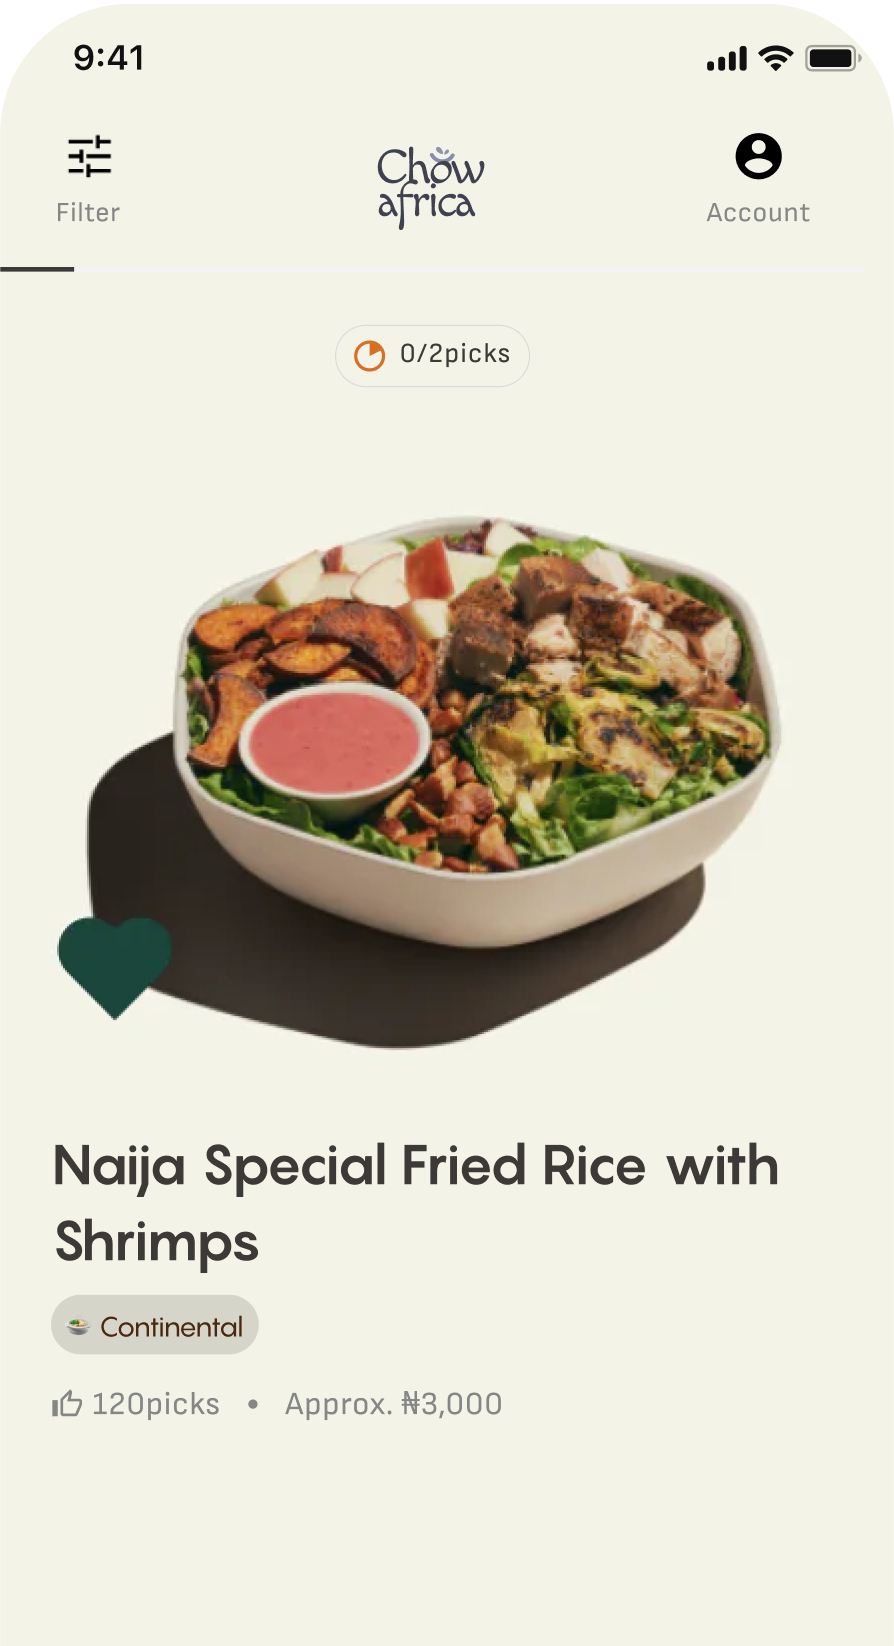
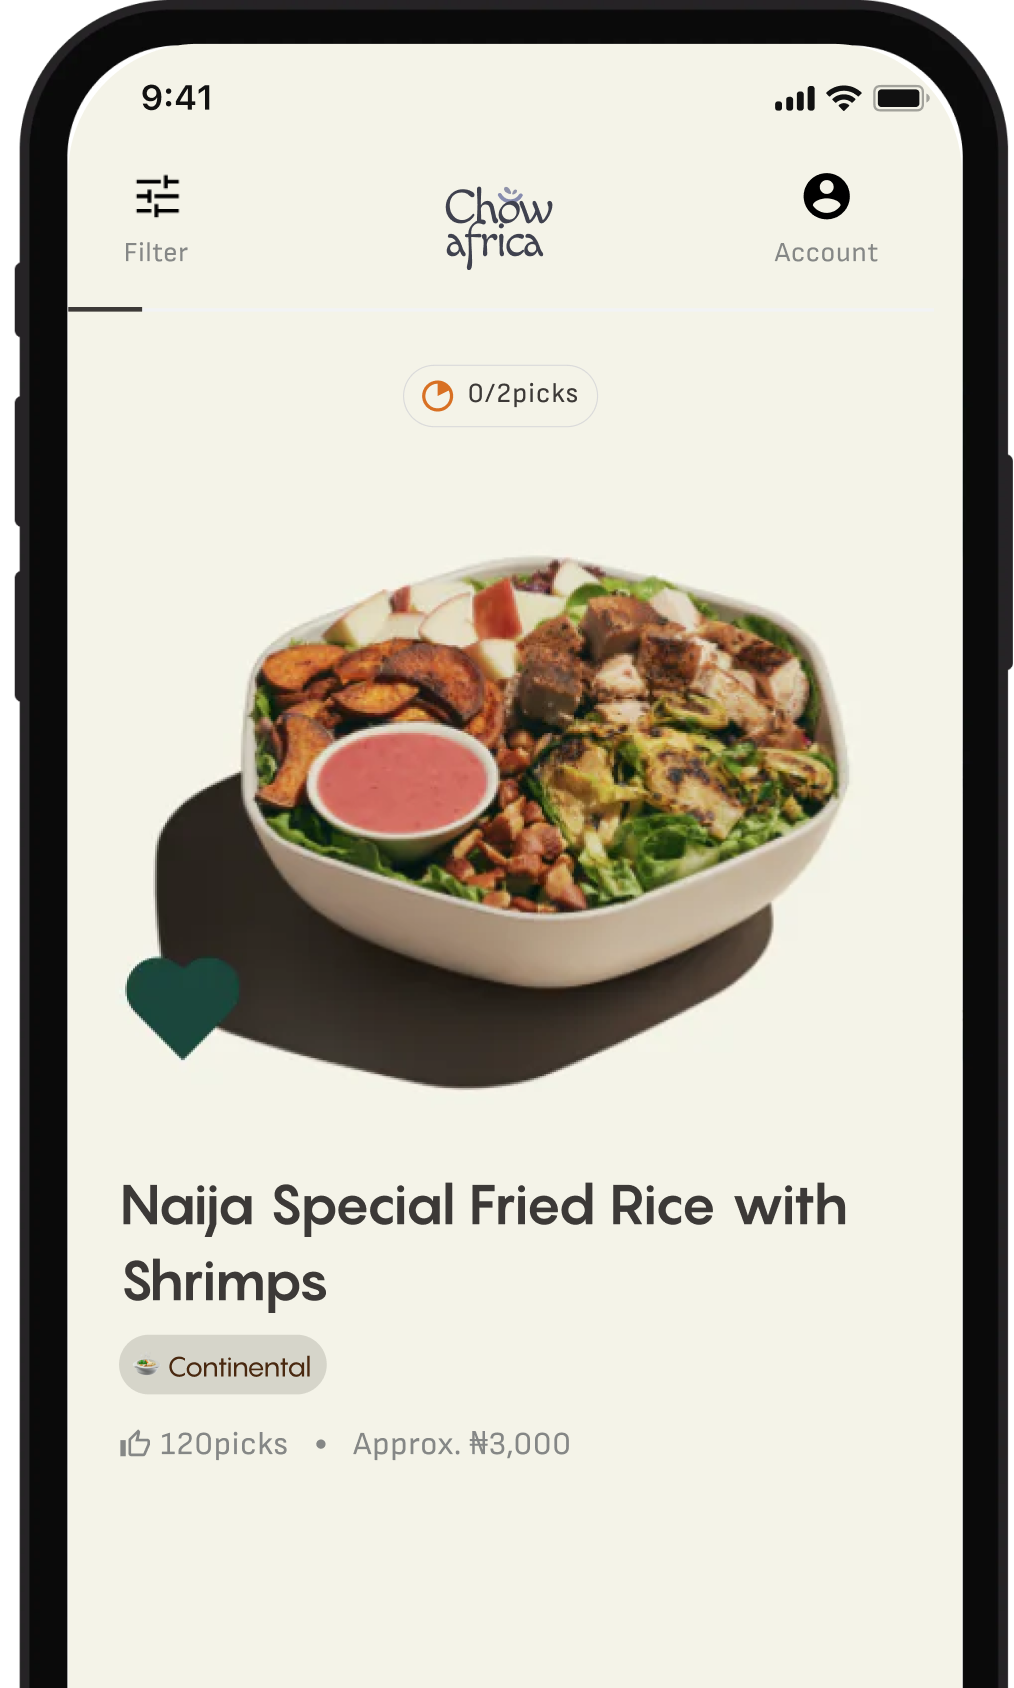
Food frame implementation

Changed region(s): [[0.0, 0.0, 1.0, 1.0], [0.4228, 0.093, 0.5436, 0.1549], [0.3926, 0.1859, 0.5738, 0.2479]]

diff --git a/src/components/home/heroSectionfoodlist.tsx b/src/components/home/heroSectionfoodlist.tsx
@@ -1,4 +1,4 @@
-import { ThumbsUp } from "lucide-react";
+import { ThumbsUp } from 'lucide-react';
 import Slider from "react-slick";
 import type { FoodItem } from "@/types/food";
 import productImage from "@/assets/img/Home-new-01.png";
@@ -63,8 +63,7 @@ export function HeroSectionFoodList() {
     autoplay: true,
     autoplaySpeed: 5000,
     pauseOnHover: true,
-    centerMode: true, 
-    className: "items-end",
+    centerMode: false,
     responsive: [
       {
         breakpoint: 1204,
@@ -87,7 +86,7 @@ export function HeroSectionFoodList() {
       {
         breakpoint: 480,
         settings: {
-          slidesToShow: 1, 
+          slidesToShow: 1,
         },
       },
     ],
@@ -95,44 +94,66 @@ export function HeroSectionFoodList() {
 
   return (
     <div className="relative">
-      <Slider {...settings} className="flex gap-4 items-end">
+      <style jsx global>{`
+        .slick-track {
+          display: flex !important;
+          align-items: flex-end !important;
+        }
+        .slick-slide {
+          height: inherit !important;
+          display: flex !important;
+          align-items: flex-end !important;
+        }
+        .slick-slide > div {
+          width: 100%;
+          display: flex;
+          align-items: flex-end;
+        }
+      `}</style>
+      
+      <Slider {...settings}>
         {foodItems.map((item) => (
-          <div className="p-2 flex items-end" key={item.id}>
-          {item.isHighlighted ? (
-                <div className="flex justify-center rounded-xl bg-transparent py-3 mb-4">
-                  <div className="relative w-full h-[500px] overflow-hidden">
-                    <img src={item.image || "@/assets/img/phone-frame.png"} alt={item.name} className="object-contain w-full h-full" />
+          <div className="px-2 flex items-end" key={item.id}>
+            {item.isHighlighted ? (
+              <div className="flex justify-center rounded-xl bg-transparent md-mb-18 py-3 md:h-[500px]">
+                <div className="relative w-full h-full">
+                  <img 
+                    src={item.image || "@/assets/img/phone-frame.png"} 
+                    alt={item.name} 
+                    className="object-contain w-full h-full"
+                  />
+                </div>
+              </div>
+            ) : (
+              <div className="bg-white py-2 mb-5 rounded-xl text-start px-2 cursor-pointer w-full">
+                <div className="flex justify-center rounded-xl bg-[#d6d5ca44] py-3 mb-4">
+                  <div className="relative w-32 h-32 rounded-full overflow-hidden">
+                    <img 
+                      src={item.image || "@/assets/img/Home-new-01.png"} 
+                      alt={item.name} 
+                      className="object-cover w-full h-full" 
+                    />
                   </div>
                 </div>
-              ) : (
-                <>
-              <div
-                className={`bg-white py-2 rounded-xl text-start px-2 cursor-pointer transition-all duration-300 ${
-                  item.isHighlighted ? "h-96" : "h-fit"
-                } flex flex-col justify-end`} 
-                >
-                  <div className="flex justify-center rounded-xl bg-[#d6d5ca44] py-3 mb-4">
-                    <div className="relative w-32 h-32 rounded-full overflow-hidden">
-                      <img src={item.image || "@/assets/img/Home-new-01.png"} alt={item.name} className="object-cover w-full h-full" />
-                    </div>
+                <h3 className="font-bold py-1 text-sm mb-1 text-start font-pangram md:line-clamp-2 max-md:text-xs  max-md:font-bold  max-md:w-48">
+                  {item.name}
+                </h3>
+                <span className="text-[#49280F] py-1 px-2 text-[8px] rounded-full inline-block bg-[#D6D5CA] text-start font-pangram">
+                  🍲 Continental
+                </span>
+                <div className="flex py-1 justify-between items-center text-xs mt-2 text-gray-600 mb-3">
+                  <div className="flex items-center gap-1">
+                    <ThumbsUp className="w-3 h-3" />
+                    <span className="font-sofia-sans">{item.duration}</span>
                   </div>
-                  <h3 className="font-bold py-1 text-sm mb-1 text-start font-pangram line-clamp-2">{item.name}</h3>
-                  <span className="text-[#49280F] py-1 px-2 text-[8px] rounded-full h-fit bg-[#D6D5CA] text-start ml-0 font-pangram">🍲 Continental</span>
-                  <div className="flex py-1 justify-between items-center text-xs h-fit mt-2 text-gray-600 mb-3">
-                    <div className="flex items-center gap-1 h-max">
-                      <ThumbsUp className="w-3 h-3" />
-                      <span className="font-sofia-sans -mb-1">{item.duration}</span>
-                    </div>
-                    <div className="p-[2.5px] bg-[#858786] rounded-full"></div>
-                    <span className="font-semibold h-max">Approx. {item.price}</span>
-                  </div>
+                  <div className="p-[2.5px] bg-[#858786] rounded-full"></div>
+                  <span className="font-semibold">Approx. {item.price}</span>
                 </div>
-                </>
-              )}
-            </div> 
+              </div>
+            )}
+          </div>
         ))}
       </Slider>
     </div>
   );
 }
-
